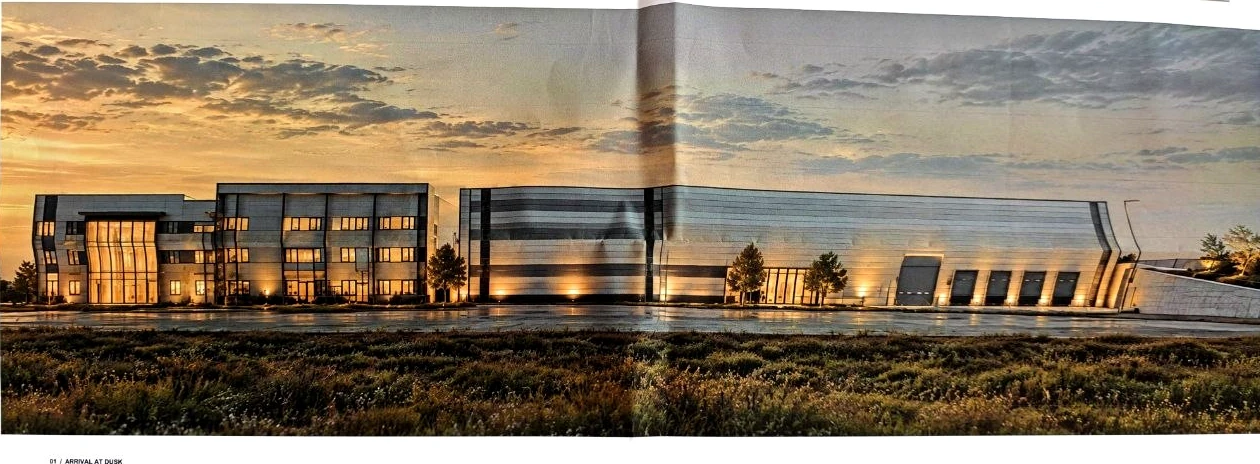
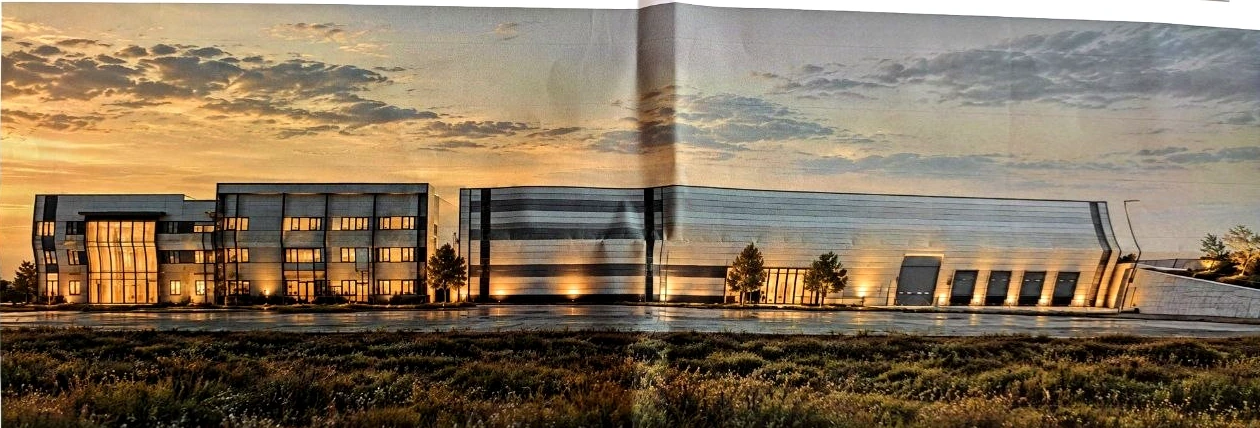
improve cover image framing

diff --git a/content/pitch-decks/waterford/sections/index.tsx b/content/pitch-decks/waterford/sections/index.tsx
@@ -35,7 +35,7 @@ function Intro({ text }: { text?: string }) {
 
 export function OverviewSection() {
   const d = useContent().overview as AnyRecord;
-  return <Frame badge={d.badge} title={d.title}><figure className="overflow-hidden rounded-2xl border border-white/10 shadow-2xl shadow-cyan-950/20 mb-4"><img src={d.image} alt={d.imageAlt} className="block w-full h-36 sm:h-44 object-cover object-center" /></figure><p className="text-xl sm:text-2xl text-slate-300 max-w-4xl leading-relaxed mb-4">{d.subtitle}</p><p className="text-base text-slate-400 max-w-4xl mb-2">{d.description}</p><Metrics items={d.metrics} /><div className="grid grid-cols-1 sm:grid-cols-3 gap-4">{d.highlights.map((x: AnyRecord) => <Card key={x.label} icon={x.icon} title={x.label} body={x.desc} />)}</div><div className="mt-6 border-l-4 border-emerald-400 bg-emerald-400/10 rounded-r-xl p-4 text-emerald-100 text-sm">{d.note}</div></Frame>;
+  return <Frame badge={d.badge} title={d.title}><figure className="overflow-hidden rounded-2xl bg-slate-950 p-1.5 border-2 border-cyan-400/60 ring-1 ring-white/20 shadow-2xl shadow-cyan-950/50 mb-4"><img src={d.image} alt={d.imageAlt} className="block w-full h-36 sm:h-44 rounded-xl object-cover object-center" /></figure><p className="text-xl sm:text-2xl text-slate-300 max-w-4xl leading-relaxed mb-4">{d.subtitle}</p><p className="text-base text-slate-400 max-w-4xl mb-2">{d.description}</p><Metrics items={d.metrics} /><div className="grid grid-cols-1 sm:grid-cols-3 gap-4">{d.highlights.map((x: AnyRecord) => <Card key={x.label} icon={x.icon} title={x.label} body={x.desc} />)}</div><div className="mt-6 border-l-4 border-emerald-400 bg-emerald-400/10 rounded-r-xl p-4 text-emerald-100 text-sm">{d.note}</div></Frame>;
 }
 
 export function OpportunitySection() {
